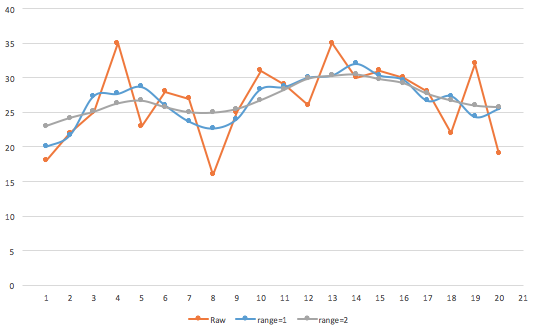
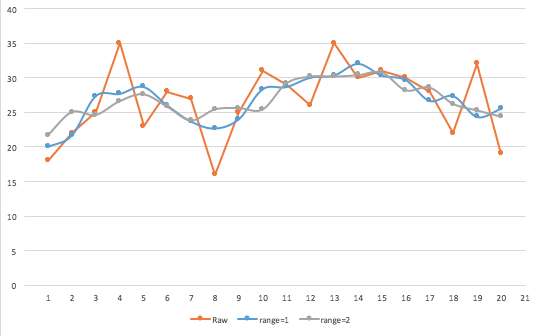
more text

diff --git a/README.md b/README.md
@@ -25,6 +25,8 @@
 
 <!-- END doctoc generated TOC please keep comment here to allow auto update -->
 
+[TOC]
+
 About
 =============
 dzVents (|diː ziː vɛnts| short for Domotiz Easy Events) brings Lua scripting in Domoticz to whole new level. Writing scripts for Domoticz has never been so easy. Not only can you define triggers more easily, and have full control over timer-based scripts with extensive scheduling support, dzVents presents you with an easy to use API to all necessary information in Domoticz. No longer do you have to combine all kinds of information given to you by Domoticzs in many different data tables. You don't have to construct complex commandArrays anymore. dzVents encapsulates all the Domoticz peculiarities regarding controlling and querying your devices. And on top of that, script performance has increased a lot if you have many scripts because Domoticz will fetch all device information only once for all your device scripts and timer scripts.
@@ -601,7 +603,7 @@ return {
     end
 }
 ```
-The problem with this is that you have to do a lot of bookkeeping yourself to make sure that there is too much data to store (see below how it works) and many statistical stuff requires a lot of code. Fortunately, dzVents has done this for you:
+The problem with this is that you have to do a lot of bookkeeping yourself to make sure that there isn't too much data to store (see below how it works) and many statistical stuff requires a lot of code. Fortunately, dzVents has done this for you:
 ```
 return {
     active = true,
@@ -623,8 +625,8 @@ return {
     end
 }
 ```
-###Historical variables API
-####Defining
+#Historical variables API
+##Defining
 You define a script variable or global variable in the data section and set `history = true`:
 ```
 	..
@@ -639,7 +641,7 @@ You define a script variable or global variable in the data section and set `his
  All these options can be combined but maxItems wins. **And again: don't store too much data. Just put only in there what you really need!** 
 
 
-#### Setting
+##Setting
 When you defined your historical variable you can add a new value to the list like this:
 
     domoticz.data.myVar.setNew(value)
@@ -648,10 +650,11 @@ As soon as you do that, this new value is put on top of the list and shifts the 
 
 Basically you can put any kind of data in the historical variable. It can be a numbers, strings but also more complex data like tables. However, in order to be able to use the statistical methods you will have to set numeric values or tell dzVents how to get a numeric value from you data. More on that later.
 
-#### Getting. It's all about time!
+##Getting. It's all about time!
 Getting values from a historical variable is basically done by using an index where 1 is the newest value , 2 is the second to newest and so on:
 
-    domoticz.data.myVar.storage[5]
+    local item = domoticz.data.myVar.get(5)
+    print(item.data)
 
 However, all data in the storage is time-stamped so getting something from the internal storage will get you this:
 ```
@@ -686,25 +689,24 @@ The time attribute by itself is a table with many properties that help you inspe
 	 - **sec**: *Number*
 	 - **year**: *Number*
  
-####Interacting with your data. Statistics!
+##Interacting with your data. Statistics!
 Once you have data points in your historical variable you have interact with it and get all kinds of statistical information from you set. Many of the methods require an index, an index-range or a time specification.
 
-**Index**
+###Index
 When you have to provide an index, you have to start counting from 1 (that's Lua). 1 is the youngest value (and beware, if you have called setNew first, then the first item is that new value!). The higher the index, the older the data. You can always check the size of the set by inspecting `myVar.size`. 
 
-**Time specification (timeAgo)**
+###Time specification (*timeAgo*)
 Many functions require you to specify a moment in the past. You do this by passing a string in this format:
 
     hh:mm:ss
    
-  Where hh is the amount of hours ago, mm the amount of minutes and ss the amount of seconds. They will all be added together and you don't have to consider 60 minute boundaries etc. So this is a valid time specification:
+ Where hh is the amount of hours ago, mm the amount of minutes and ss the amount of seconds. They will all be added together and you don't have to consider 60 minute boundaries etc. So this is a valid time specification:
   
-
     12:88:03
 
 Which will point to the data point at or around `12*3600 + 88*60 + 3 = 48.483` seconds in the past.
 
-**Getting data points:**
+###Getting data points
 
  - **subset([fromIdx], [toIdx])**:  Returns a subset of the stored data. If you omit `fromIdx` then it starts at 1. If you omit `toIdx` then it takes all items until the end of the set (oldest). So `myVar.subset()` returns all data.
  - **subsetSince([timeAgo])**: Returns a subset of the stored data since the relative time specified by timeAgo. So calling `myVar.subsetSince('00:60:00')` returns all items that have been added to the list in the past 60 minutes.
@@ -716,7 +718,7 @@ Which will point to the data point at or around `12*3600 + 88*60 + 3 = 48.483` s
  - **getOldest()**: Returns the oldest item in the set. Same as `myVar.get(myVar.size)`.
  - **reset():** Removes all the items from the set. Could be handy if you want to start over. It could be a good practice to do this often when you know you don't need older data. For instance when you turn on a heater and you just want to monitor rising temperatures starting from this moment when the heater is activated. If you don't need data points from before, then you may call reset.
 
-**Statistical functions:**
+###Statistical functions
 In order to use the statistical functions you have to put numerical data in the set. Or you have to provide a function for getting this data. So, if it is just numbers you can just do this:
 
     myVar.setNew(myDevice.temperature) -- adds a number to the set
@@ -749,7 +751,7 @@ This function tells dzVents when it tries to sum up values (needed for averaging
 
 Of course, if you don't intend to use any of these statistical functions you can put whatever you want in the set. Even mixup data. No-one cares but you.
 
-**Functions**:
+####Functions
 
  - **avg([fromIdx], [toIdx], [default])**: Calculates the average of all item values within the range `fromIdx` to `toIdx`. You can specify a `default` value for when there is no data in the set. 
  - **avgSince(timeAgo, default)**: Calculates the average of all data points since `timeAgo`. Returns `default` if there is no data.
@@ -769,36 +771,39 @@ print(' minimum was : ' .. value .. ': ' .. item.time.secondsAgo .. ' seconds ag
  - **localMax([smoothRange], default)**:  Same as **localMin** but now for the maximum value.
  - **smoothItem(itemIdx, [smoothRange])**: Returns a the value of `itemIdx` in the set but smoothed by averaging with its neighbors. The amount of neighbors is set by `smoothRange`.
 
+####About data smoothing
+Suppose you store temperatures in the historical variable. These temperatures my have extremes. Sometimes these extremes could be due to sensor reading errors. In order to reduce the effect of these so called spikes, you could smooth out values. It is like blurring the data. Here is an example. The Raw column could be your temperatures. The other columns is calculated by averaging the neighbors. So for item 10 the calucations are:
 
-**About data smoothing**
-Suppose you store temperatures in the historical variable. These temperatures my have extremes. Sometimes these extremes could be due to sensor reading errors. In order to reduce the effect of these so called spikes, you could smooth out values. It is like blurring the data. Here is an example. The Raw column could be your temperatures.
+    Range=1 for t10 = (25 + 31 + 29) / 3 = 28,3
+    Range=2 for t10 = (16 + 25 + 31 + 29 + 26) / 5 = 25,4
 
-| Time | Raw | range=1 | range=2 |
+| Time | Raw | Range=1 | Range=2 |
 |------|-----|---------|---------|
-| 1    | 18  | 20,0    | 23,0    |
-| 2    | 22  | 21,7    | 24,2    |
-| 3    | 25  | 27,3    | 25,1    |
-| 4    | 35  | 27,7    | 26,3    |
-| 5    | 23  | 28,7    | 26,7    |
-| 6    | 28  | 26,0    | 25,7    |
-| 7    | 27  | 23,7    | 25,0    |
-| 8    | 16  | 22,7    | 24,9    |
-| 9    | 25  | 24,0    | 25,5    |
-| 10   | 31  | 28,3    | 26,7    |
-| 11   | 29  | 28,7    | 28,3    |
-| 12   | 26  | 30,0    | 29,9    |
-| 13   | 35  | 30,3    | 30,3    |
-| 14   | 30  | 32,0    | 30,5    |
-| 15   | 31  | 30,3    | 29,8    |
-| 16   | 30  | 29,7    | 29,2    |
-| 17   | 28  | 26,7    | 27,7    |
-| 18   | 22  | 27,3    | 26,7    |
-| 19   | 32  | 24,3    | 26,0    |
-| 20   | 19  | 25,5    | 25,7    |
+| 1    | 18  | 20,0    | 21,7    |
+| 2    | 22  | 21,7    | 25,0    |
+| 3    | 25  | 27,3    | 24,6    |
+| 4    | 35  | 27,7    | 26,6    |
+| 5    | 23  | 28,7    | 27,6    |
+| 6    | 28  | 26,0    | 25,8    |
+| 7    | 27  | 23,7    | 23,8    |
+| 8    | 16  | 22,7    | 25,4    |
+| 9    | 25  | 24,0    | 25,6    |
+| 10   | 31  | 28,3    | 25,4    |
+| 11   | 29  | 28,7    | 29,2    |
+| 12   | 26  | 30,0    | 30,2    |
+| 13   | 35  | 30,3    | 30,2    |
+| 14   | 30  | 32,0    | 30,4    |
+| 15   | 31  | 30,3    | 30,8    |
+| 16   | 30  | 29,7    | 28,2    |
+| 17   | 28  | 26,7    | 28,6    |
+| 18   | 22  | 27,3    | 26,2    |
+| 19   | 32  | 24,3    | 25,3    |
+| 20   | 19  | 25,5    | 24,3    |
 
 If you make a chart you can make it even more visible:
 ![Smothing](dzVents/smoothing.png)
 
+So, some of the statistical function allow you to provide a smoothing range. Usually a range of 1 or 2 is sufficient.
 
 Settings
 ===
